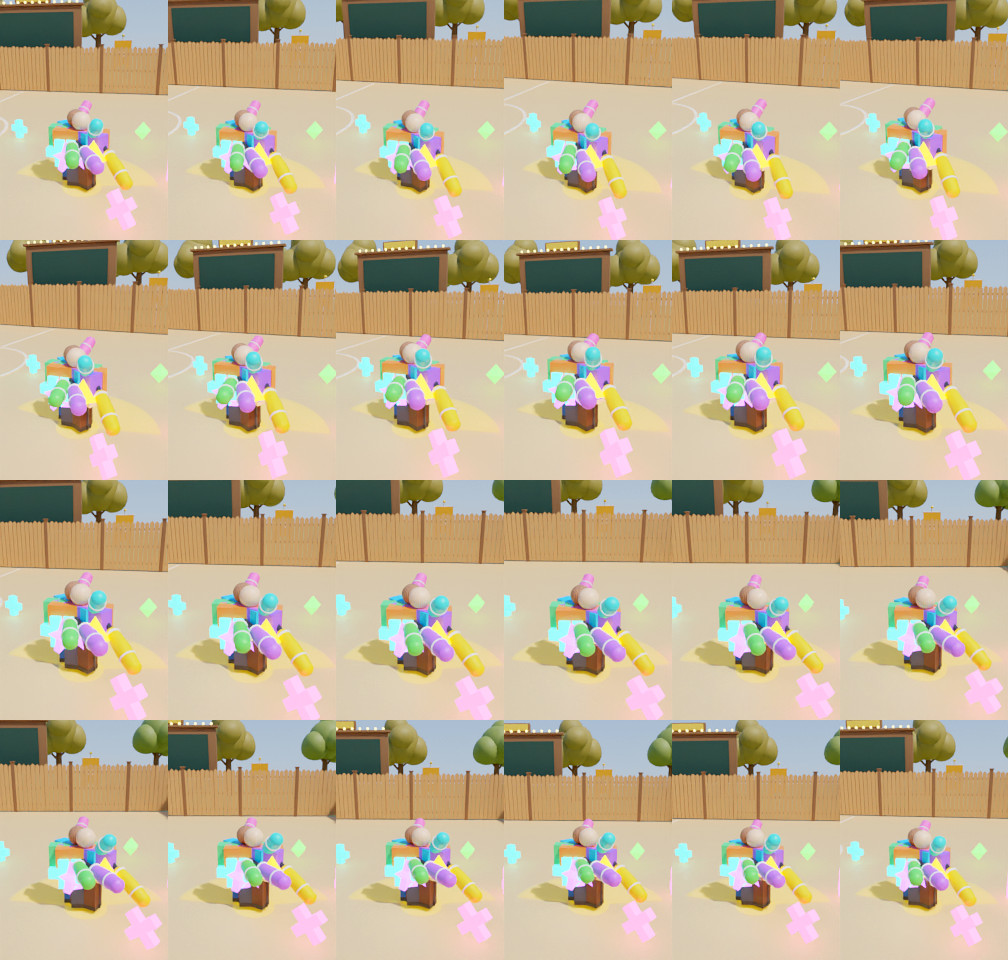
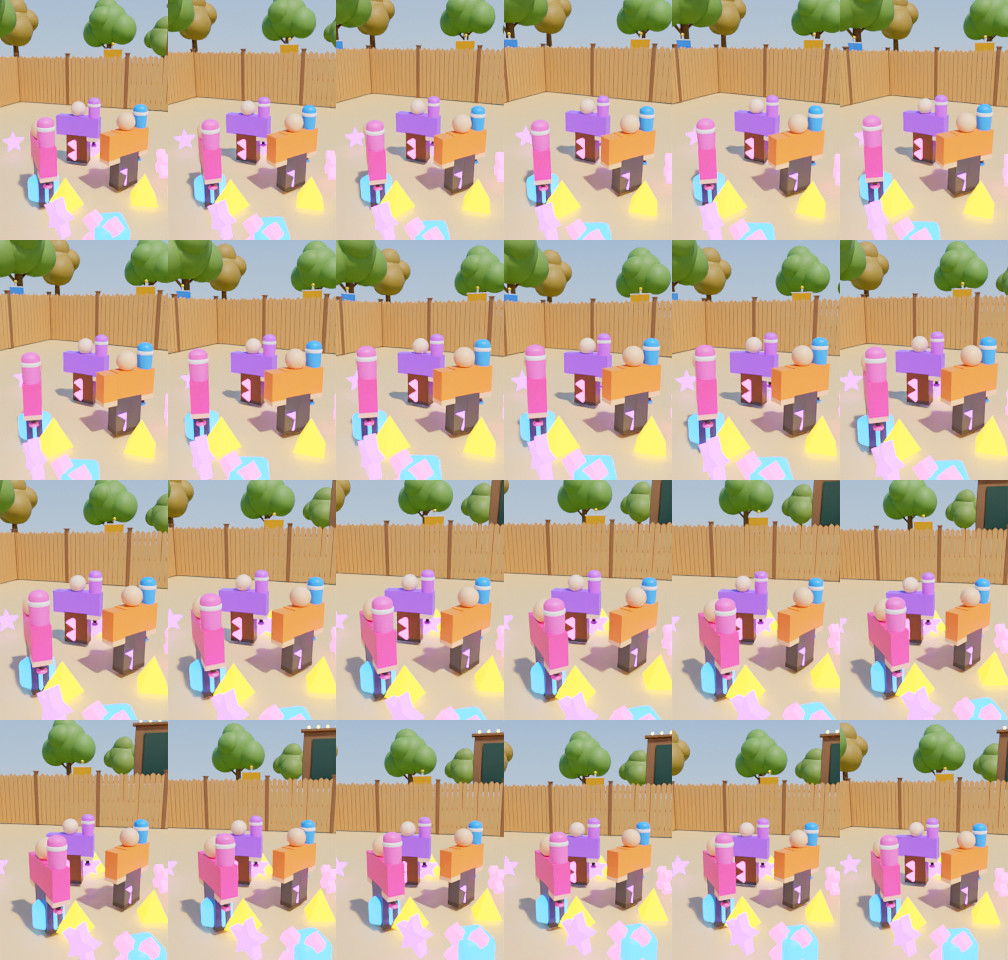
Struggle's portal preview shows the new bats held in hand
The old preview showed the capsule bats floating beside the players. The new one is re-shot from a round with the real bats. The camera now frames the group of three players among the knocked-loose orbs. In that test round four bots stood stacked on one spot, so the old framing showed just one body. The image is 94727421623197; decal 125959294757118.

Claude-Session: https://claude.ai/code/session_01TkuGjJa1hD9yT5rM1jPfjD

diff --git a/tools/preview/make_preview.py b/tools/preview/make_preview.py
@@ -137,7 +137,7 @@ CAMERAS: dict[str, dict] = {
     "StampOut": {"look_at": "Paper", "yaw": 20, "pitch": 50, "distance": 38, "shift": [5, 2, 6], "raise": 6},
     # Into the first scrum on the sandlot: foam bats swinging, a wind-up's reach on the sand, orbs knocked
     # loose flying out, the scoreboard over the fence behind.
-    "Struggle": {"look_at": "Sand", "yaw": 10, "pitch": 26, "distance": 20, "shift": [20.5, 2, 7.5], "raise": 9},
+    "Struggle": {"look_at": "Sand", "yaw": 20, "pitch": 22, "distance": 19, "shift": [-15.5, 3, 1], "raise": 8},
     # Chasing two riders down their lanes: their crayons drawing purple and teal lines behind them, the
     # dotted guides curving away ahead.
     "TraceRace": {"look_at": "StartLine", "yaw": 0, "pitch": 45, "distance": 46, "shift": [29, 3, -110], "raise": 6},
